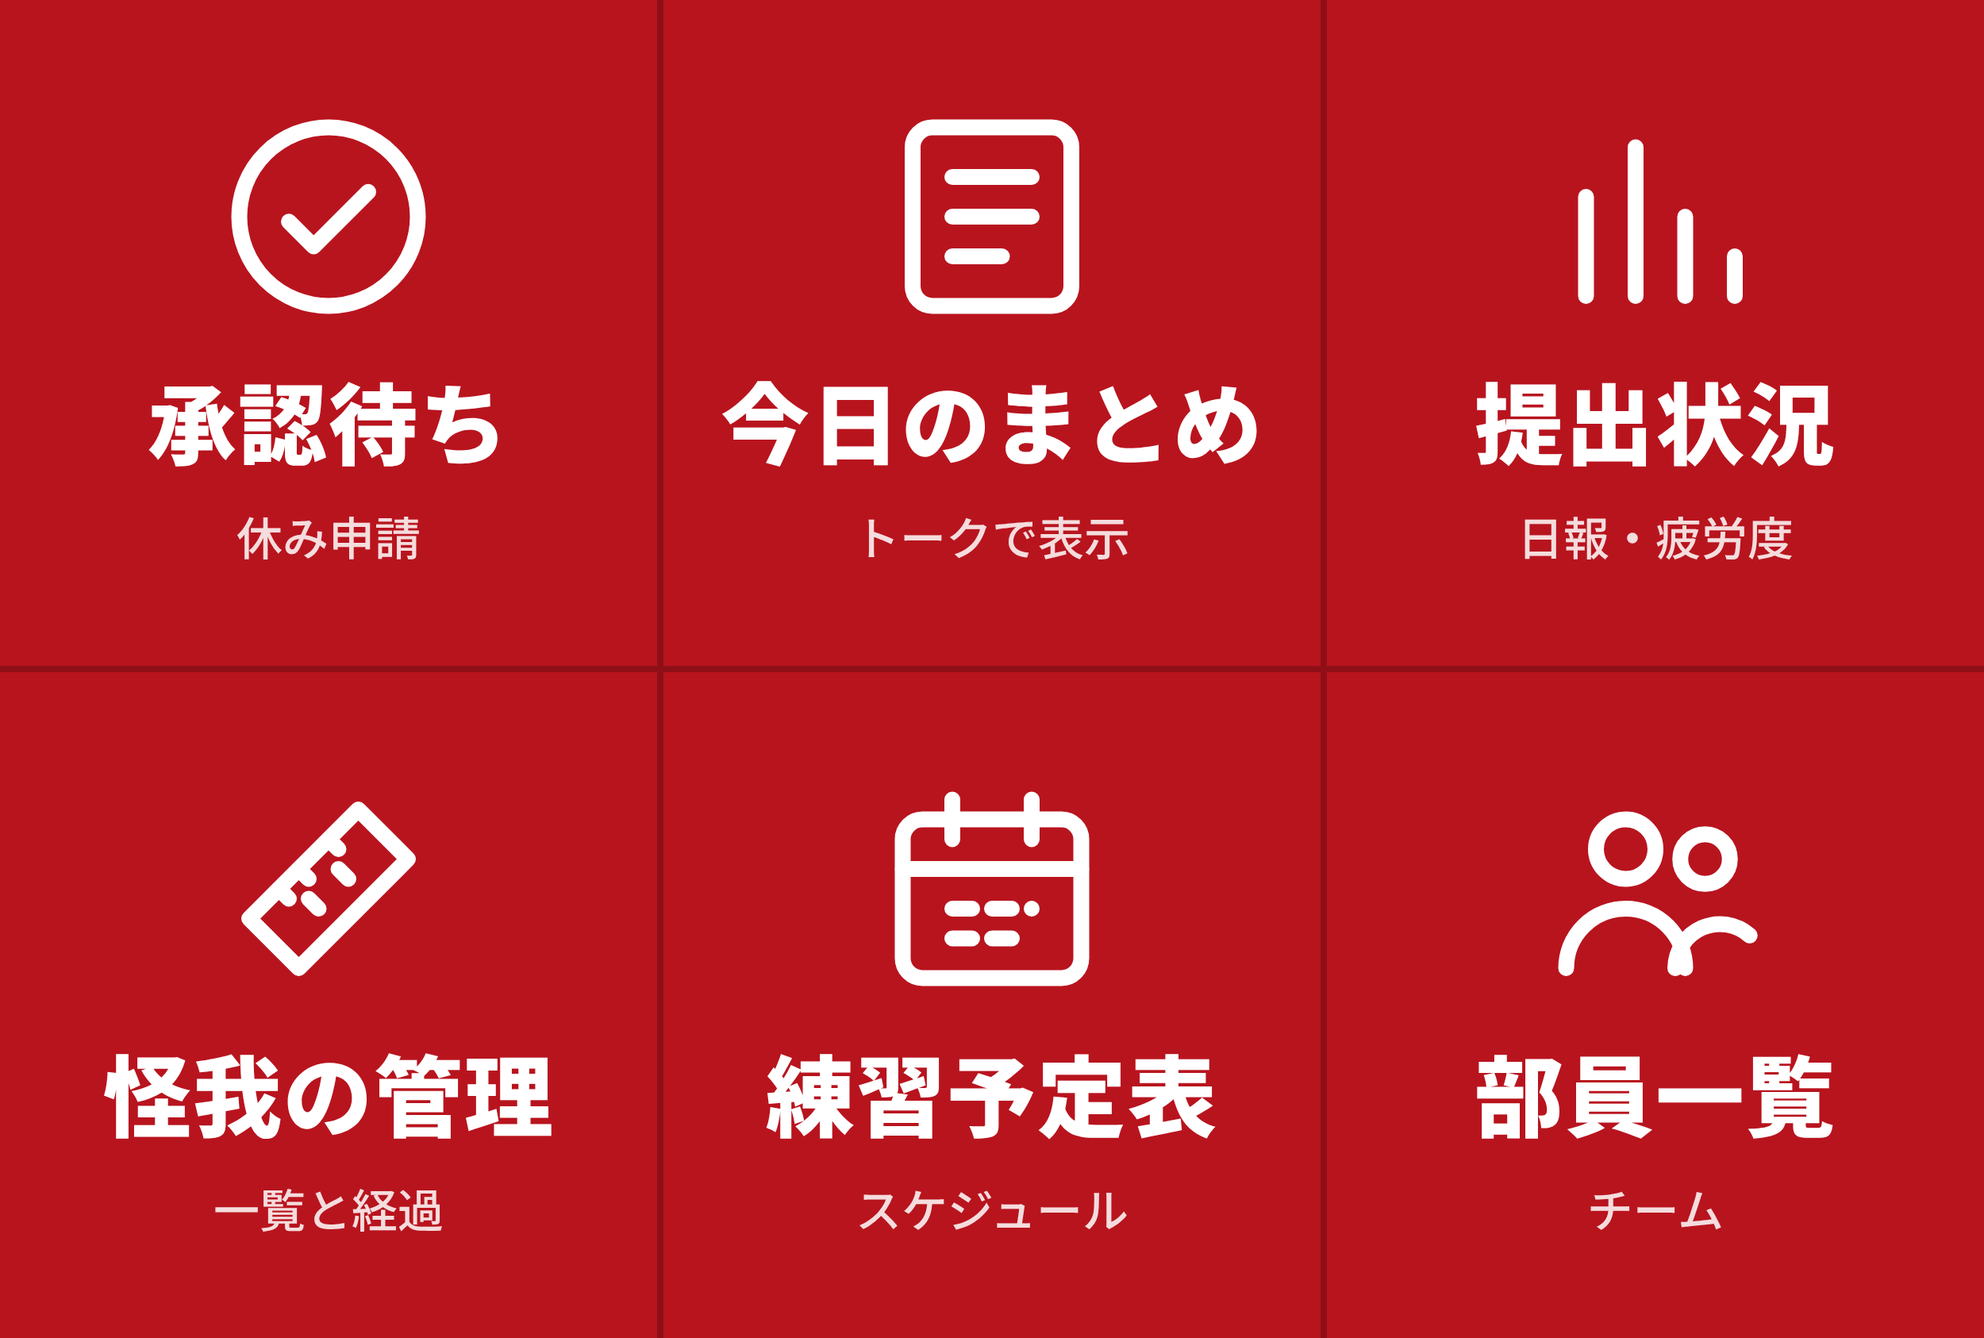
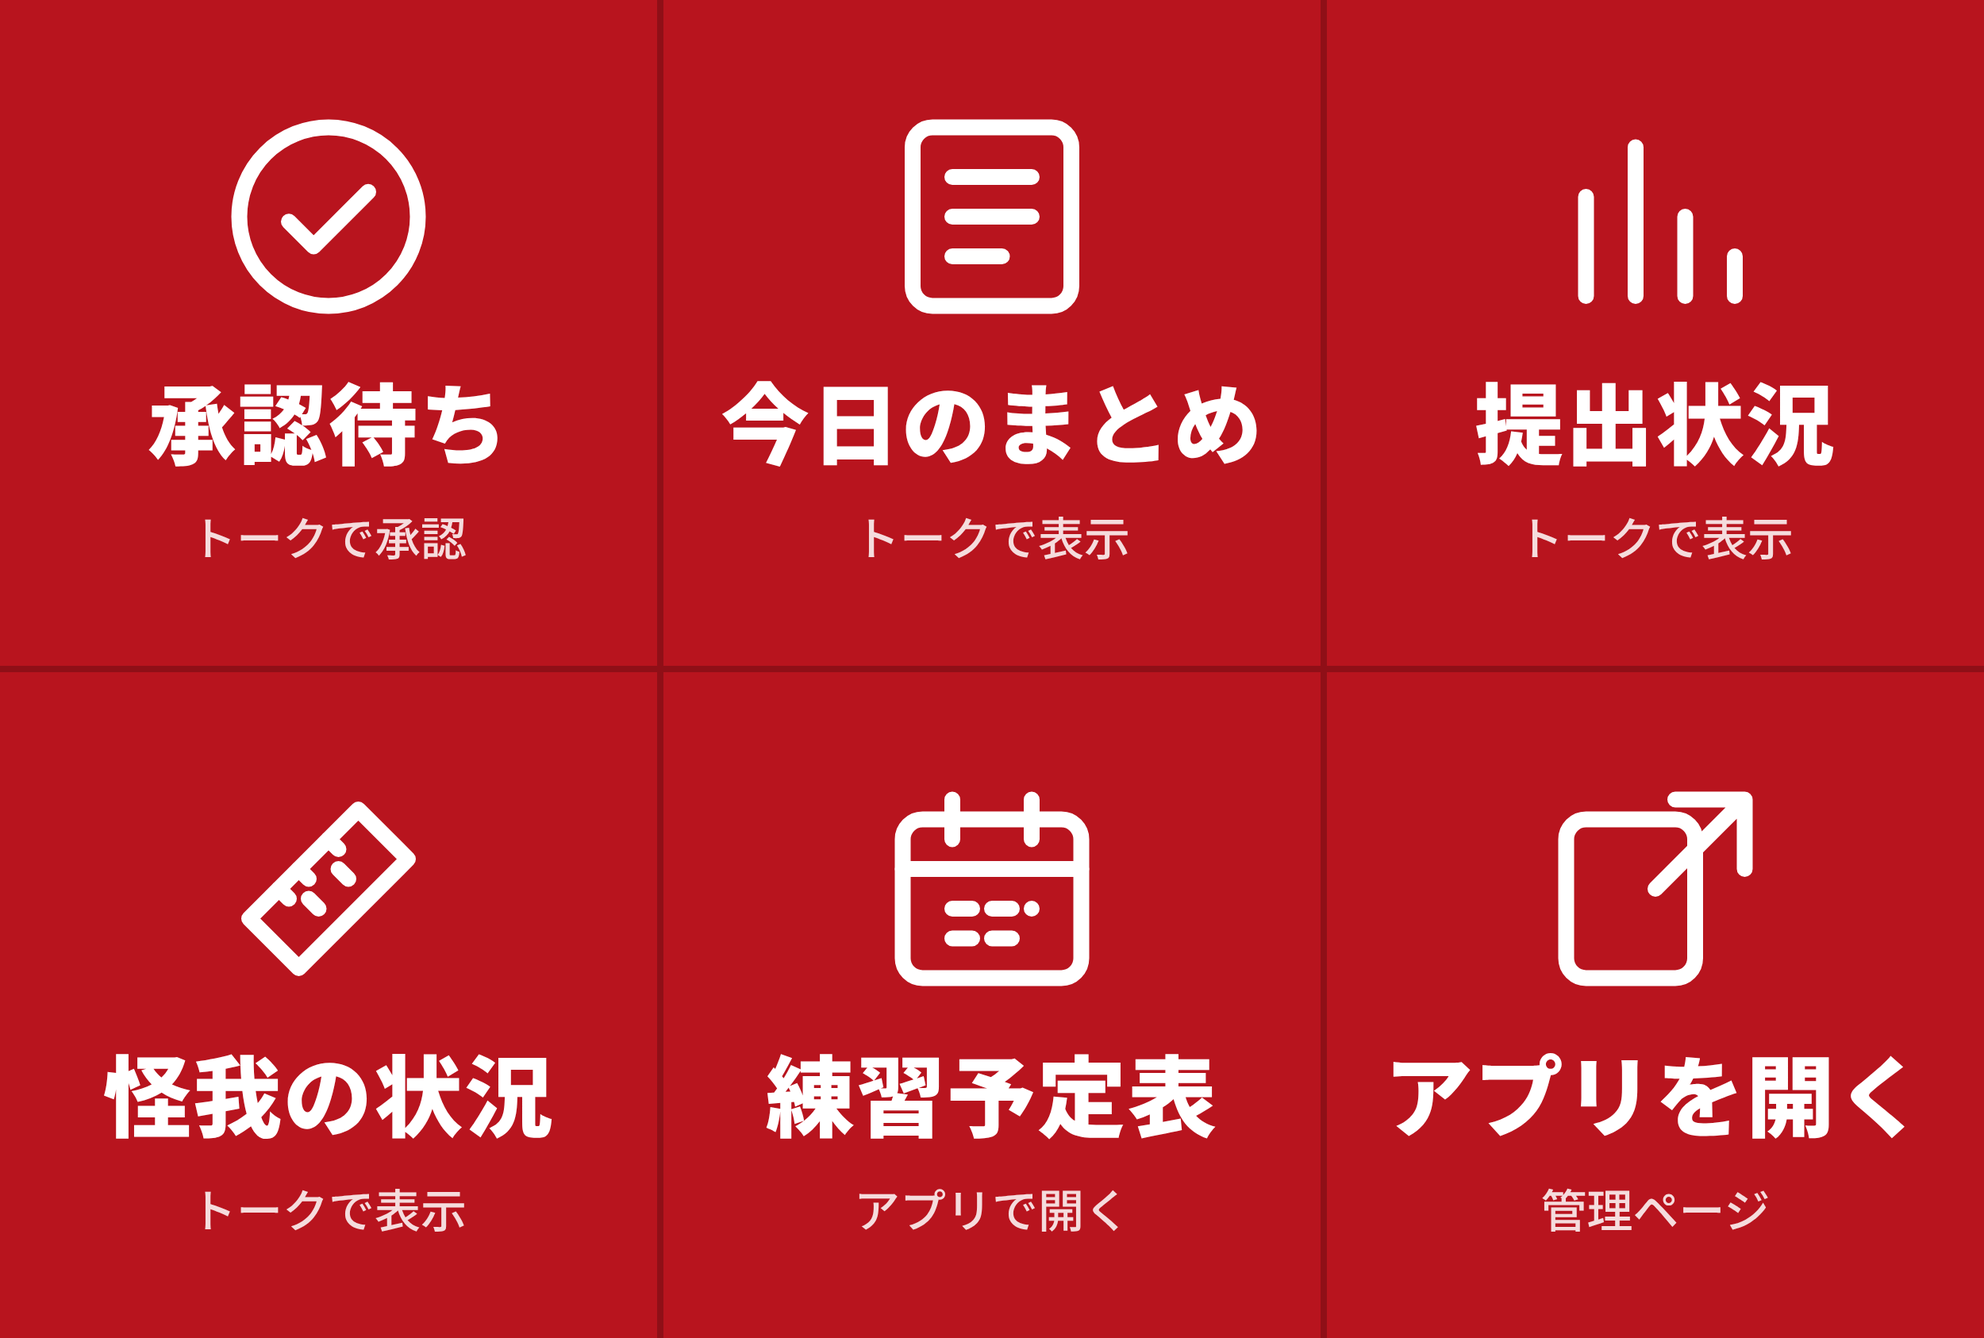
監督用リッチメニューを「トークで表示」中心に（承認待ち・提出状況・怪我の状況）、返事の下に「アプリで見る」ボタン
- 承認待ち：カードの「承認」ボタンでその場で承認、まとめて承認（クイックリプライ）
- 提出状況：今日の日報（拠点別）と疲労度
- 怪我の状況：治療中の怪我（拠点別、新規に🆕）
- 監督・コーチの判定はLINE連携したアカウントの役職で行う（環境変数の宛先も可）
- まとめ通知・返事の末尾のURLを「アプリで見る」ボタンに置き換え

Claude-Session: https://claude.ai/code/session_01BhQTxNEJL7WRsC9XPeyxR7

diff --git a/app/lib/lineCoach.ts b/app/lib/lineCoach.ts
@@ -1,0 +1,202 @@
+// 監督・コーチ用リッチメニューのボタンへの返信（サーバー側専用・返信なので通数0）
+import type { SupabaseClient } from "@supabase/supabase-js";
+import { absencePlanLabel, absenceReasonText, type AbsenceRequest } from "./absence";
+import { buildDailySummary, jstDateKey } from "./dailySummary";
+import { coachLineUserIds, type LineMessage } from "./line";
+import { appButton, liffUrl } from "./liffConfig";
+
+const LOC_LABEL: Record<string, string> = { tama: "多摩", otsuka: "大塚" };
+const WEEK = ["日", "月", "火", "水", "木", "金", "土"];
+
+function md(dateStr: string) {
+  const [y, m, d] = dateStr.split("-").map(Number);
+  return `${m}/${d}（${WEEK[new Date(Date.UTC(y, m - 1, d)).getUTCDay()]}）`;
+}
+
+function cut(s: string, max: number) {
+  return s.length > max ? `${s.slice(0, max - 1)}…` : s;
+}
+
+export type Staff = { profileId: string | null; role: "coach" | "manager" };
+
+// LINEのユーザーIDから、監督・コーチ（またはマネージャー）かどうかを調べる
+export async function findStaff(admin: SupabaseClient, lineUserId: string | undefined): Promise<Staff | null> {
+  if (!lineUserId) return null;
+  const { data } = await admin
+    .from("profiles")
+    .select("id, role")
+    .eq("line_user_id", lineUserId)
+    .maybeSingle();
+  const p = data as { id: string; role: string } | null;
+  if (p && (p.role === "coach" || p.role === "manager")) {
+    return { profileId: p.id, role: p.role };
+  }
+  // アプリと未連携でも、環境変数に登録された監督・コーチは使える
+  if (coachLineUserIds().includes(lineUserId)) return { profileId: p?.id ?? null, role: "coach" };
+  return null;
+}
+
+// 今日のまとめから、指定した見出しのブロックだけを取り出す
+async function summarySections(admin: SupabaseClient, teamId: string, heads: string[]) {
+  const text = await buildDailySummary(admin, teamId, "");
+  const blocks = text.split("\n\n");
+  const picked = blocks.filter((b) => heads.some((h) => b.startsWith(h)));
+  return [blocks[0], ...picked].join("\n\n");
+}
+
+// 「提出状況」：今日の日報（拠点別）と疲労度
+export async function replyStatus(admin: SupabaseClient, teamId: string): Promise<LineMessage[]> {
+  const text = await summarySections(admin, teamId, ["▪今日の日報", "▪疲労度"]);
+  return [{ type: "text", text }, appButton("/admin")];
+}
+
+// 「怪我の状況」：まだ治っていない怪我
+export async function replyInjuries(admin: SupabaseClient, teamId: string): Promise<LineMessage[]> {
+  const { data } = await admin
+    .from("injuries")
+    .select(
+      "author_id, symptom_name, body_part, mat_participation, expected_recovery_date, created_at, author:profiles!injuries_author_id_fkey(display_name, home_location)"
+    )
+    .eq("team_id", teamId)
+    .eq("is_recovered", false)
+    .order("created_at", { ascending: false });
+  const rows = (data ?? []) as unknown as {
+    symptom_name: string;
+    body_part: string;
+    mat_participation: string;
+    expected_recovery_date: string | null;
+    created_at: string;
+    author: { display_name: string; home_location: string | null } | null;
+  }[];
+  const part: Record<string, string> = { yes: "参加可", no: "参加不可", conditional: "条件付き" };
+  const today = jstDateKey(0);
+  const lines = [`🩹 怪我の状況（${md(today)}時点）：${rows.length}人`];
+  if (rows.length === 0) lines.push("治療中の怪我はありません。");
+  for (const loc of ["tama", "otsuka", null] as const) {
+    const list = rows.filter((r) => (r.author?.home_location ?? null) === loc);
+    if (list.length === 0) continue;
+    lines.push("");
+    lines.push(`▪${loc ? LOC_LABEL[loc] : "拠点未設定"}：${list.length}人`);
+    for (const r of list.slice(0, 20)) {
+      const isNew = r.created_at.slice(0, 10) >= jstDateKey(-2) ? "🆕" : "";
+      const back = r.expected_recovery_date ? `／復帰予定 ${md(r.expected_recovery_date)}` : "";
+      lines.push(
+        `${isNew}${r.author?.display_name ?? "?"}：${r.body_part}・${r.symptom_name}／${part[r.mat_participation] ?? ""}${back}`
+      );
+    }
+  }
+  return [{ type: "text", text: lines.join("\n") }, appButton("/admin?tab=injuries")];
+}
+
+type PendingRow = AbsenceRequest & { author: { display_name: string; home_location: string | null } | null };
+
+async function pendingRequests(admin: SupabaseClient, teamId: string) {
+  const { data } = await admin
+    .from("absence_requests")
+    .select("*, author:profiles!absence_requests_author_id_fkey(display_name, home_location)")
+    .eq("team_id", teamId)
+    .eq("status", "pending")
+    .gte("date", jstDateKey(0))
+    .order("date", { ascending: true })
+    .order("created_at", { ascending: true });
+  return (data ?? []) as unknown as PendingRow[];
+}
+
+// 「承認待ち」：一覧と、その場で承認できるボタン
+export async function replyPending(admin: SupabaseClient, teamId: string, staff: Staff): Promise<LineMessage[]> {
+  const rows = await pendingRequests(admin, teamId);
+  if (rows.length === 0) {
+    return [{ type: "text", text: "✅ 承認待ちの休み申請はありません。" }, appButton("/admin#absence")];
+  }
+  const canApprove = staff.role === "coach";
+  const header: LineMessage = {
+    type: "text",
+    text:
+      `⏳ 承認待ちの休み申請：${rows.length}件` +
+      (canApprove ? "\n下のカードの「承認」で、その場で承認できます。差し戻しはアプリからできます。" : ""),
+    ...(canApprove && rows.length > 1
+      ? {
+          quickReply: {
+            items: [
+              {
+                type: "action",
+                action: {
+                  type: "postback",
+                  label: `${rows.length}件まとめて承認`,
+                  data: "action=approve_all",
+                  displayText: "承認待ちをまとめて承認",
+                },
+              },
+            ],
+          },
+        }
+      : {}),
+  };
+  const shown = rows.slice(0, 10);
+  const columns = shown.map((r) => {
+    const loc = r.author?.home_location ? LOC_LABEL[r.author.home_location] : "";
+    const actions = [
+      canApprove
+        ? {
+            type: "postback",
+            label: "承認",
+            data: `action=approve&id=${r.id}`,
+            displayText: `${r.author?.display_name ?? ""}さんの休み（${md(r.date)}）を承認`,
+          }
+        : { type: "uri", label: "アプリで見る", uri: liffUrl("/admin#absence") },
+      { type: "uri", label: "アプリで差し戻す", uri: liffUrl("/admin#absence") },
+    ];
+    return {
+      title: cut(`${md(r.date)} ${r.author?.display_name ?? "?"}${loc ? `（${loc}）` : ""}`, 40),
+      text: cut(`${absenceReasonText(r)}\n代替：${absencePlanLabel[r.plan_type]}${r.plan ? `（${r.plan}）` : ""}`, 60),
+      actions,
+    };
+  });
+  const carousel: LineMessage = {
+    type: "template",
+    altText: `承認待ちの休み申請 ${rows.length}件`,
+    template: { type: "carousel", columns },
+  };
+  const out: LineMessage[] = [header, carousel];
+  out.push(
+    appButton(
+      "/admin#absence",
+      rows.length > shown.length
+        ? `ほか${rows.length - shown.length}件と差し戻しは、アプリで確認できます`
+        : "差し戻しや過去の申請は、アプリで確認できます"
+    )
+  );
+  return out;
+}
+
+// 承認ボタン
+export async function approve(
+  admin: SupabaseClient,
+  teamId: string,
+  staff: Staff,
+  id: string | null
+): Promise<LineMessage[]> {
+  if (staff.role !== "coach") return [{ type: "text", text: "承認できるのは監督・コーチだけです。" }];
+  const target = id ? (await pendingRequests(admin, teamId)).filter((r) => r.id === id) : await pendingRequests(admin, teamId);
+  if (target.length === 0) {
+    return [{ type: "text", text: id ? "この申請は、すでに承認・差し戻し・取り消しされています。" : "承認待ちの申請はありません。" }];
+  }
+  const { error } = await admin
+    .from("absence_requests")
+    .update({
+      status: "approved",
+      reviewed_by: staff.profileId,
+      reviewed_at: new Date().toISOString(),
+    })
+    .in(
+      "id",
+      target.map((r) => r.id)
+    )
+    .eq("status", "pending");
+  if (error) return [{ type: "text", text: `承認できませんでした：${error.message}` }];
+  const names = target.map((r) => `${md(r.date)} ${r.author?.display_name ?? "?"}`);
+  return [
+    { type: "text", text: `✅ 承認しました（${target.length}件）\n${names.join("\n")}` },
+    appButton("/admin#absence", "ほかの申請はアプリで確認できます"),
+  ];
+}

diff --git a/app/api/line/webhook/route.ts b/app/api/line/webhook/route.ts
@@ -1,12 +1,9 @@
 import { NextRequest, NextResponse } from "next/server";
 import { createClient } from "@supabase/supabase-js";
-import {
-  coachLineUserIds,
-  lineConfigured,
-  lineReply,
-  verifyLineSignature,
-} from "../../../lib/line";
+import { lineConfigured, lineReply, verifyLineSignature, type LineMessage } from "../../../lib/line";
+import { approve, findStaff, replyInjuries, replyPending, replyStatus } from "../../../lib/lineCoach";
 import { buildDailySummary, buildTomorrowMenuText } from "../../../lib/dailySummary";
+import { appButton } from "../../../lib/liffConfig";
 
 // アプリのデータを読む（サービスロール。無い環境では null）
 async function adminContext() {
@@ -20,25 +17,54 @@ async function adminContext() {
 }
 
 const NOT_READY = "準備中です（アプリ側の設定がまだ終わっていません）。";
+const STAFF_ONLY = "このボタンは監督・コーチ専用です。設定の「LINE連携」で、アプリのアカウントとLINEを連携してください。";
 
-async function handleAction(action: string, userId: string | undefined, origin: string) {
+async function handleAction(
+  data: URLSearchParams,
+  userId: string | undefined,
+  origin: string
+): Promise<LineMessage[] | null> {
+  const action = data.get("action");
+  if (!action) return null;
+  const ctx = await adminContext();
+  if (!ctx) return [{ type: "text", text: NOT_READY }];
+  const { admin, teamId } = ctx;
+
   if (action === "menu_tomorrow") {
-    const ctx = await adminContext();
-    if (!ctx) return NOT_READY;
-    return buildTomorrowMenuText(ctx.admin, ctx.teamId);
+    return [{ type: "text", text: await buildTomorrowMenuText(admin, teamId) }, appButton("/board", "練習予定表はアプリで確認できます")];
   }
-  if (action === "summary") {
-    if (!userId || !coachLineUserIds().includes(userId)) {
-      return "このボタンは監督・コーチ専用です。";
-    }
-    const ctx = await adminContext();
-    if (!ctx) return NOT_READY;
-    return buildDailySummary(ctx.admin, ctx.teamId, process.env.APP_URL || origin);
+
+  // ここから下は監督・コーチ用
+  const staff = await findStaff(admin, userId);
+  if (!staff) return [{ type: "text", text: STAFF_ONLY }];
+  switch (action) {
+    case "summary":
+      return [
+        { type: "text", text: await buildDailySummary(admin, teamId, process.env.APP_URL || origin) },
+        appButton("/admin#absence"),
+      ];
+    case "pending":
+      return replyPending(admin, teamId, staff);
+    case "approve":
+      return approve(admin, teamId, staff, data.get("id"));
+    case "approve_all":
+      return approve(admin, teamId, staff, null);
+    case "status":
+      return replyStatus(admin, teamId);
+    case "injuries":
+      return replyInjuries(admin, teamId);
   }
   return null;
 }
 
-export const dynamic = "force-dynamic";
+// トークに直接打った言葉でも同じ返事をする
+const KEYWORDS: Record<string, string> = {
+  明日のメニュー: "menu_tomorrow",
+  今日のまとめ: "summary",
+  承認待ち: "pending",
+  提出状況: "status",
+  怪我の状況: "injuries",
+};
 
 type LineSource = { type: "user" | "group" | "room"; userId?: string; groupId?: string; roomId?: string };
 type LineEvent = {
@@ -77,17 +103,15 @@ export async function POST(request: NextRequest) {
       if (!ev.replyToken) return;
       try {
         // リッチメニューのボタン（返信なので通数にカウントされない）
-        const action =
+        const params =
           ev.type === "postback"
-            ? new URLSearchParams(ev.postback?.data ?? "").get("action")
-            : ev.type === "message" && ev.message?.text?.trim() === "明日のメニュー"
-              ? "menu_tomorrow"
-              : ev.type === "message" && ev.message?.text?.trim() === "今日のまとめ"
-                ? "summary"
-                : null;
-        if (action) {
-          const text = await handleAction(action, ev.source?.userId, request.nextUrl.origin);
-          if (text) await lineReply(ev.replyToken, [{ type: "text", text }]);
+            ? new URLSearchParams(ev.postback?.data ?? "")
+            : ev.type === "message" && KEYWORDS[ev.message?.text?.trim() ?? ""]
+              ? new URLSearchParams({ action: KEYWORDS[ev.message!.text!.trim()] })
+              : null;
+        if (params) {
+          const messages = await handleAction(params, ev.source?.userId, request.nextUrl.origin);
+          if (messages) await lineReply(ev.replyToken, messages);
           return;
         }
         if (ev.type === "join") {

diff --git a/app/api/line/daily-summary/route.ts b/app/api/line/daily-summary/route.ts
@@ -2,6 +2,7 @@ import { NextRequest, NextResponse } from "next/server";
 import { createClient } from "@supabase/supabase-js";
 import { buildDailySummary } from "../../../lib/dailySummary";
 import { lineConfigured, linePush } from "../../../lib/line";
+import { appButton } from "../../../lib/liffConfig";
 
 export const dynamic = "force-dynamic";
 
@@ -39,7 +40,7 @@ export async function GET(request: NextRequest) {
   for (const t of (teams ?? []) as { id: string }[]) {
     const text = await buildDailySummary(admin, t.id, appUrl(request));
     for (const dest of to) {
-      await linePush(dest, [{ type: "text", text }]);
+      await linePush(dest, [{ type: "text", text }, appButton("/admin#absence")]);
       sent++;
     }
   }
@@ -90,7 +91,7 @@ export async function POST(request: NextRequest) {
     );
   }
   try {
-    for (const dest of to) await linePush(dest, [{ type: "text", text }]);
+    for (const dest of to) await linePush(dest, [{ type: "text", text }, appButton("/admin#absence")]);
   } catch (e) {
     return NextResponse.json(
       { text, error: e instanceof Error ? e.message : "送信に失敗しました" },

diff --git a/app/api/line/richmenu/route.ts b/app/api/line/richmenu/route.ts
@@ -43,13 +43,14 @@ export async function POST(request: NextRequest) {
     { type: "uri", label: "設定", uri: open("/settings") },
   ];
   const coachActions: RichMenuAction[] = [
-    { type: "uri", label: "承認待ち", uri: open("/admin", "#absence") },
+    { type: "postback", label: "承認待ち", data: "action=pending", displayText: "承認待ち" },
     { type: "postback", label: "今日のまとめ", data: "action=summary", displayText: "今日のまとめ" },
-    { type: "uri", label: "提出状況", uri: open("/admin") },
-    { type: "uri", label: "怪我の管理", uri: open("/admin?tab=injuries") },
+    { type: "postback", label: "提出状況", data: "action=status", displayText: "提出状況" },
+    { type: "postback", label: "怪我の状況", data: "action=injuries", displayText: "怪我の状況" },
     { type: "uri", label: "練習予定表", uri: open("/board") },
-    { type: "uri", label: "部員一覧", uri: open("/team") },
+    { type: "uri", label: "アプリを開く", uri: open("/admin") },
   ];
+
 
   try {
     const [memberImg, coachImg] = await Promise.all(

diff --git a/app/lib/dailySummary.ts b/app/lib/dailySummary.ts
@@ -2,7 +2,6 @@
 // 管理者のトークンで作った Supabase クライアント（RLS で同じチームが見える）か、
 // サービスロールのクライアントのどちらでも動く。
 import type { SupabaseClient } from "@supabase/supabase-js";
-import { liffUrl } from "./liffConfig";
 import {
   absencePlanLabel,
   absenceReasonText,
@@ -255,10 +254,7 @@ export async function buildDailySummary(
     )
   );
 
-  lines.push("");
-  // LINEの中でアプリを開き、LINEでログインしてから管理ページへ
   void appUrl;
-  lines.push(`▶ アプリで確認・承認\n${liffUrl("/admin#absence")}`);
 
   const text = lines.join("\n");
   return text.length > 4900 ? `${text.slice(0, 4890)}\n…（続きはアプリで）` : text;

diff --git a/app/lib/liffConfig.ts b/app/lib/liffConfig.ts
@@ -6,3 +6,16 @@ export const LIFF_ID = process.env.NEXT_PUBLIC_LIFF_ID || "2012523269-UmgHPVzJ";
 export function liffUrl(to: string) {
   return `https://liff.line.me/${LIFF_ID}?to=${encodeURIComponent(to)}`;
 }
+
+// トークの返事の下に付ける「アプリで見る」ボタン（LINEのボタン型メッセージ）
+export function appButton(path: string, text = "詳しくはアプリで確認できます") {
+  return {
+    type: "template",
+    altText: "アプリで見る",
+    template: {
+      type: "buttons",
+      text,
+      actions: [{ type: "uri", label: "アプリで見る", uri: liffUrl(path) }],
+    },
+  };
+}
